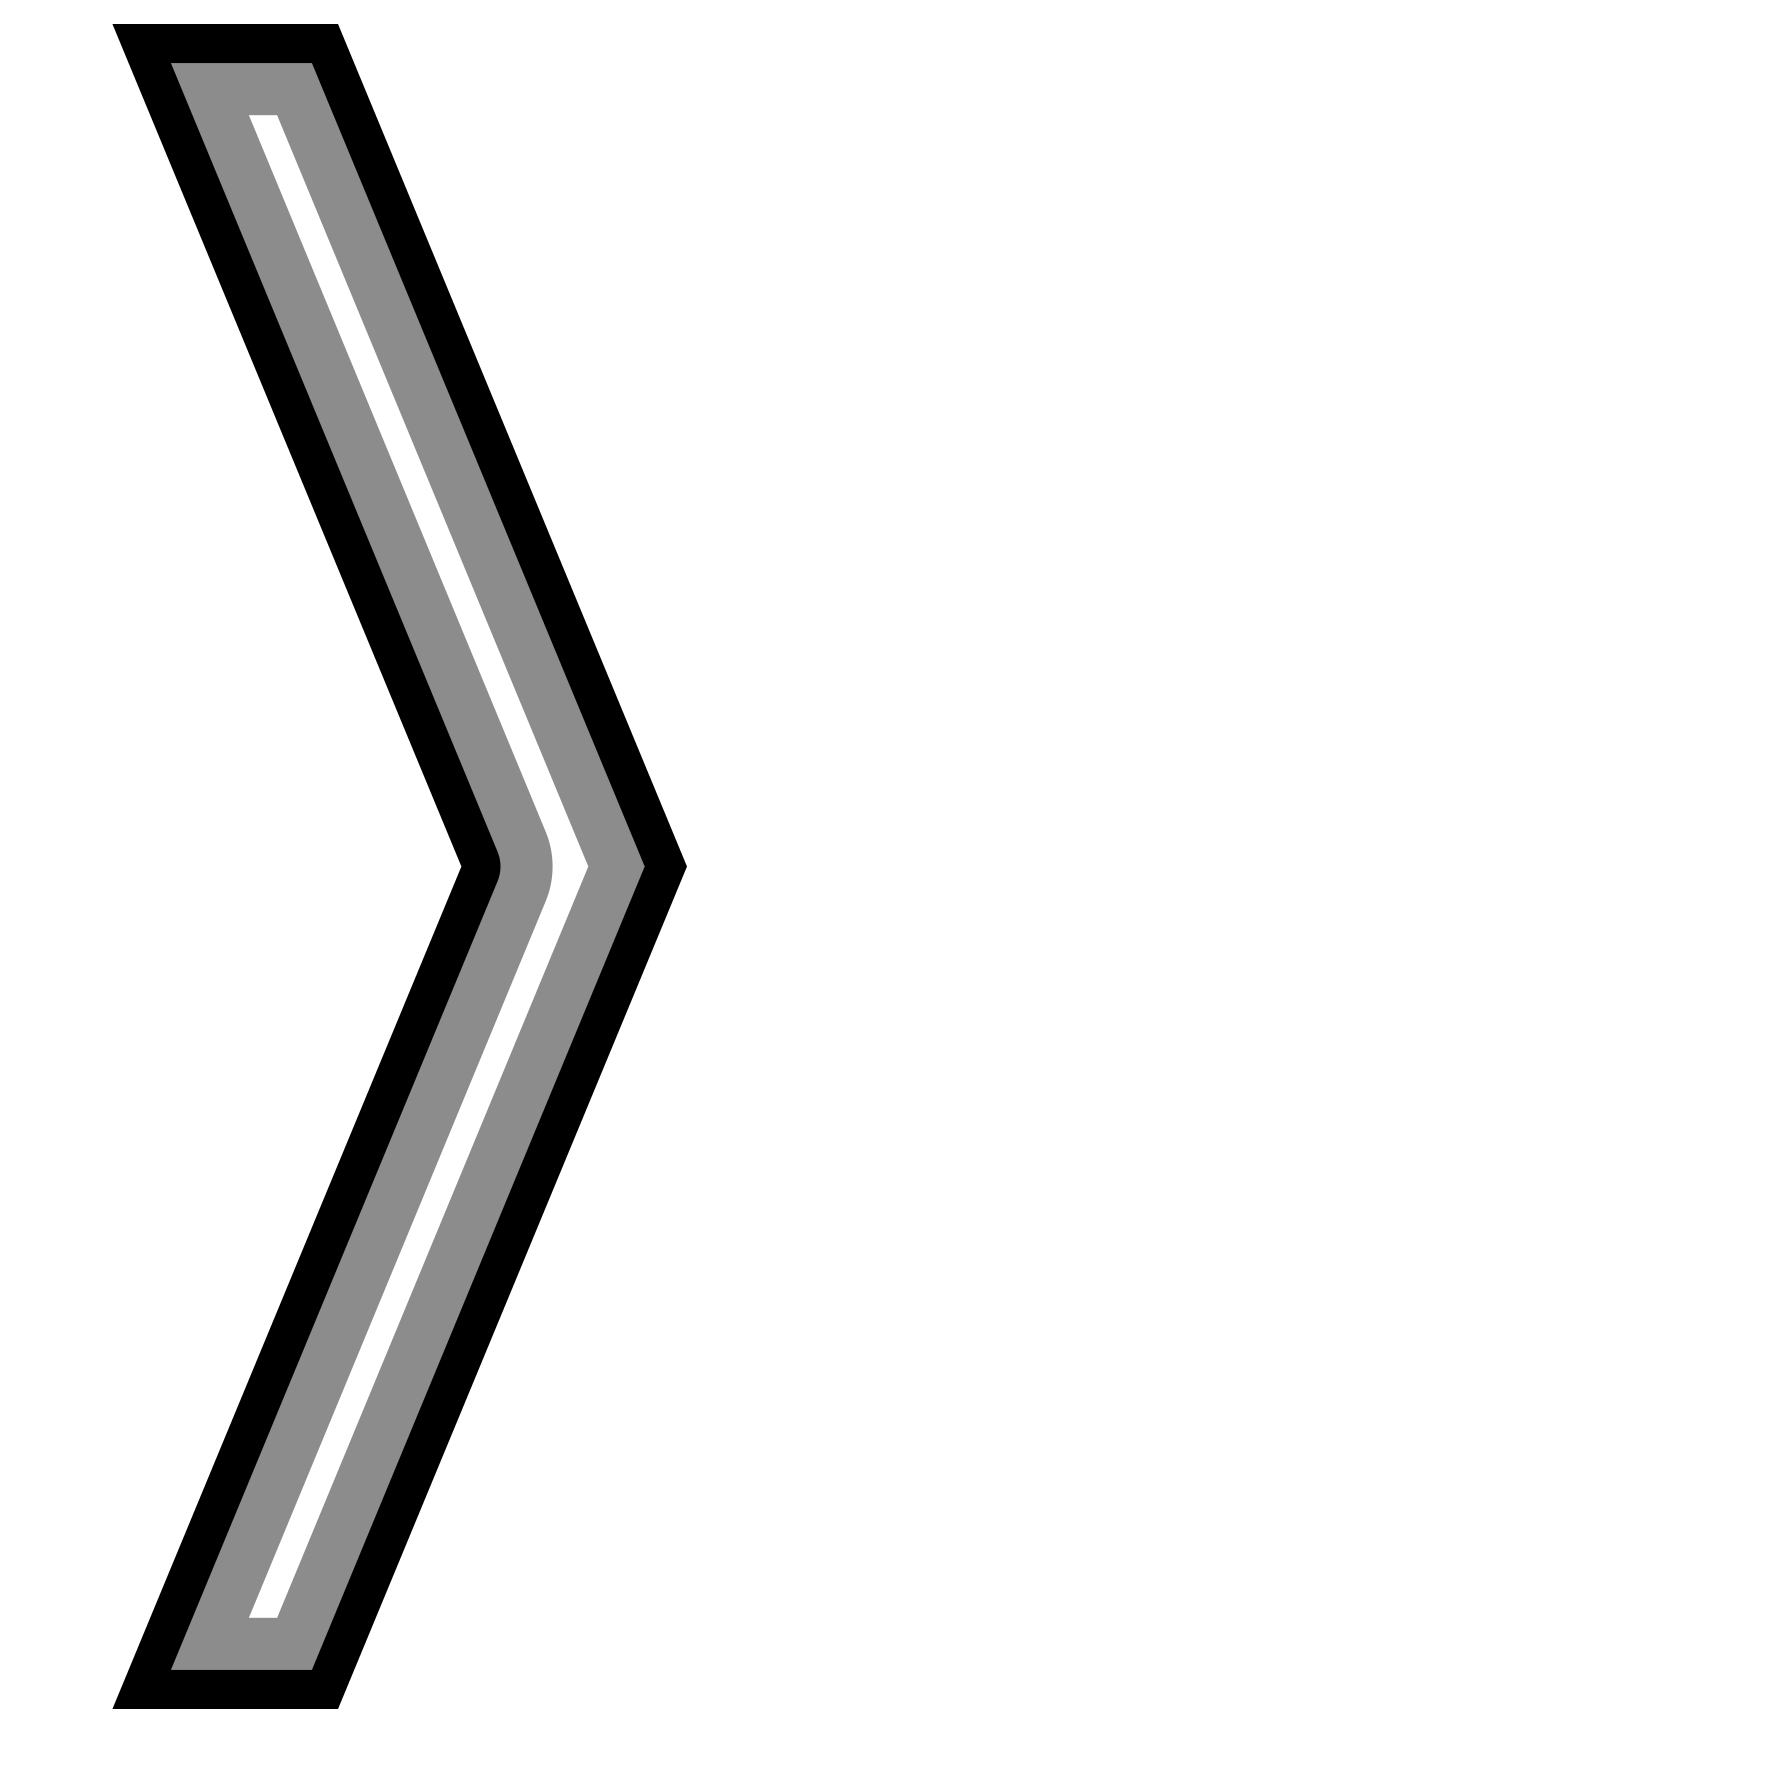
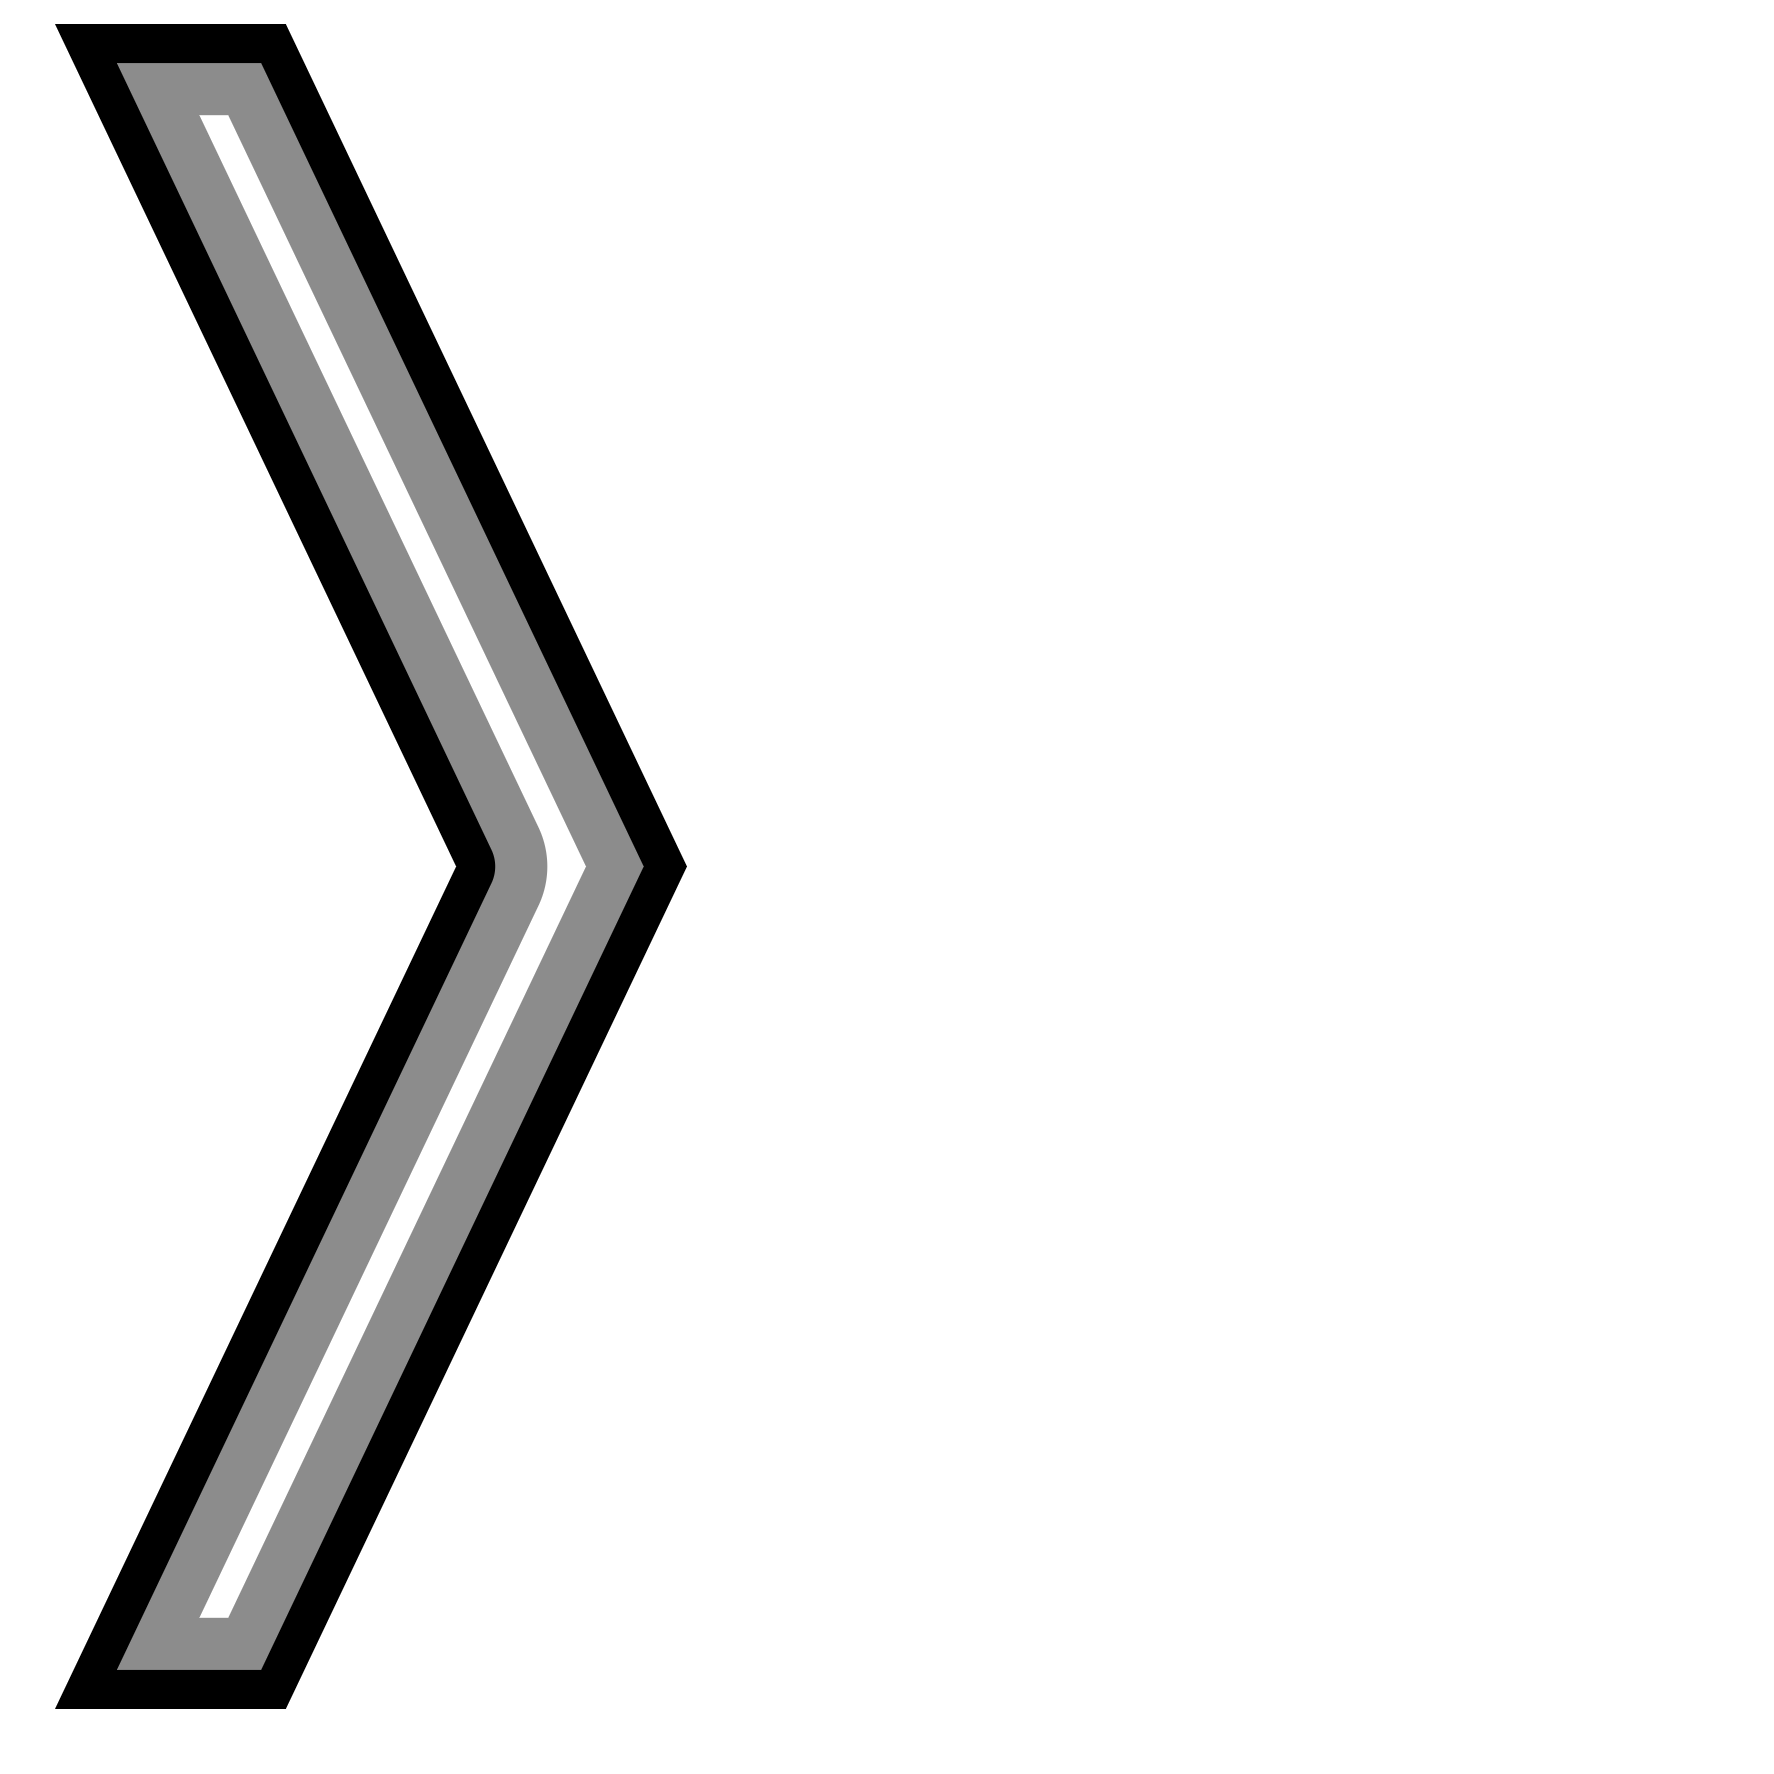
Redraw Solid level with Chevron's arms at 0.9 of its width and widen Chevron to 1.1

Changed region(s): [[0.031, 0.0, 0.372, 0.9611]]

diff --git a/tools/make_omen_shapes.py b/tools/make_omen_shapes.py
@@ -18,11 +18,13 @@ from pathlib import Path
 ROOT = Path(__file__).resolve().parent.parent
 HALF_W, H = 887, 1774
 TIP = (687.0, 866.5)
-ANGLE = math.radians(135 / 2)      # each side's angle from the axis
+ANGLE = math.radians(135 / 2)      # the reference arm angle from the axis; sets scale and Solid
 OUTLINE, INSET, DIM = 3, 4, 0.55   # outline and inset widths in design units; the inset's grey
 BASE = 100                         # Solid's base, design units
 ARM, THICKNESS = 70, 16            # Chevron's arm length and thickness, design units
-MARGIN = 24                        # pixels kept clear at the top and bottom
+SOLID_WIDTH = 0.9                  # Solid's width as a share of the reference chevron's
+CHEVRON_WIDTH = 1.1                # Chevron's width as a share of the reference chevron's
+MARGIN = 24                       # pixels kept clear at the top and bottom
 
 
 def encode(width, height, rows):
@@ -55,25 +57,42 @@ def edge_distance(poly, x, y):
 
 
 def solid():
-    """The triangle, its base as tall as the half allows, and the pixels per design unit."""
-    base = 2 * (min(TIP[1], H - TIP[1]) - MARGIN)
-    scale = base / BASE
-    depth = base / 2 / math.tan(ANGLE)
+    """The triangle sharing Chevron's tip and height, its base corners level with the top and
+    bottom of Chevron's arms and SOLID_WIDTH of the ANGLE chevron's width back from the tip.
+    Returns it and the pixels per design unit."""
+    poly, _ = chevron(ANGLE)
+    xs, ys = [p[0] for p in poly], [p[1] for p in poly]
     tx, ty = TIP
-    return [(tx, ty), (tx - depth, ty + base / 2), (tx - depth, ty - base / 2)], scale
+    left = tx - SOLID_WIDTH * (tx - min(xs))
+    return [(tx, ty), (left, max(ys)), (left, min(ys))], (max(ys) - min(ys)) / BASE
 
 
-def chevron():
-    """The chevron, its arms reaching as far as the half allows."""
+def chevron(angle=None):
+    """The chevron, its arms reaching as far as the half allows. The arm thickness and the
+    pixels per design unit are those of the ANGLE chevron; by default the arms open at the
+    lower angle that makes it CHEVRON_WIDTH times as wide."""
     reach = min(TIP[1], H - TIP[1]) - MARGIN
     scale = reach / (ARM * math.sin(ANGLE))
-    arm, thickness = ARM * scale, THICKNESS * scale
-    tx, ty = TIP
-    back = (-math.cos(ANGLE), math.sin(ANGLE))
-    shift = thickness / math.sin(ANGLE)           # along the axis, for the arms' thickness
-    up = (tx + back[0] * arm, ty - back[1] * arm)
-    down = (tx + back[0] * arm, ty + back[1] * arm)
-    return [(tx, ty), up, (up[0] - shift, up[1]), (tx - shift, ty), (down[0] - shift, down[1]), down], scale
+    thickness = THICKNESS * scale
+
+    def shape(a):
+        arm = reach / math.sin(a)
+        shift = thickness / math.sin(a)           # along the axis, for the arms' thickness
+        tx, ty = TIP
+        up = (tx - math.cos(a) * arm, ty - reach)
+        down = (tx - math.cos(a) * arm, ty + reach)
+        return [(tx, ty), up, (up[0] - shift, up[1]), (tx - shift, ty), (down[0] - shift, down[1]), down]
+
+    def width(a):
+        return TIP[0] - min(p[0] for p in shape(a))
+
+    if angle is None:
+        target, low, high = CHEVRON_WIDTH * width(ANGLE), math.radians(10), ANGLE
+        for _ in range(60):                       # the width grows as the angle falls
+            mid = (low + high) / 2
+            low, high = (mid, high) if width(mid) > target else (low, mid)
+        angle = (low + high) / 2
+    return shape(angle), scale
 
 
 def picture(poly, scale):
